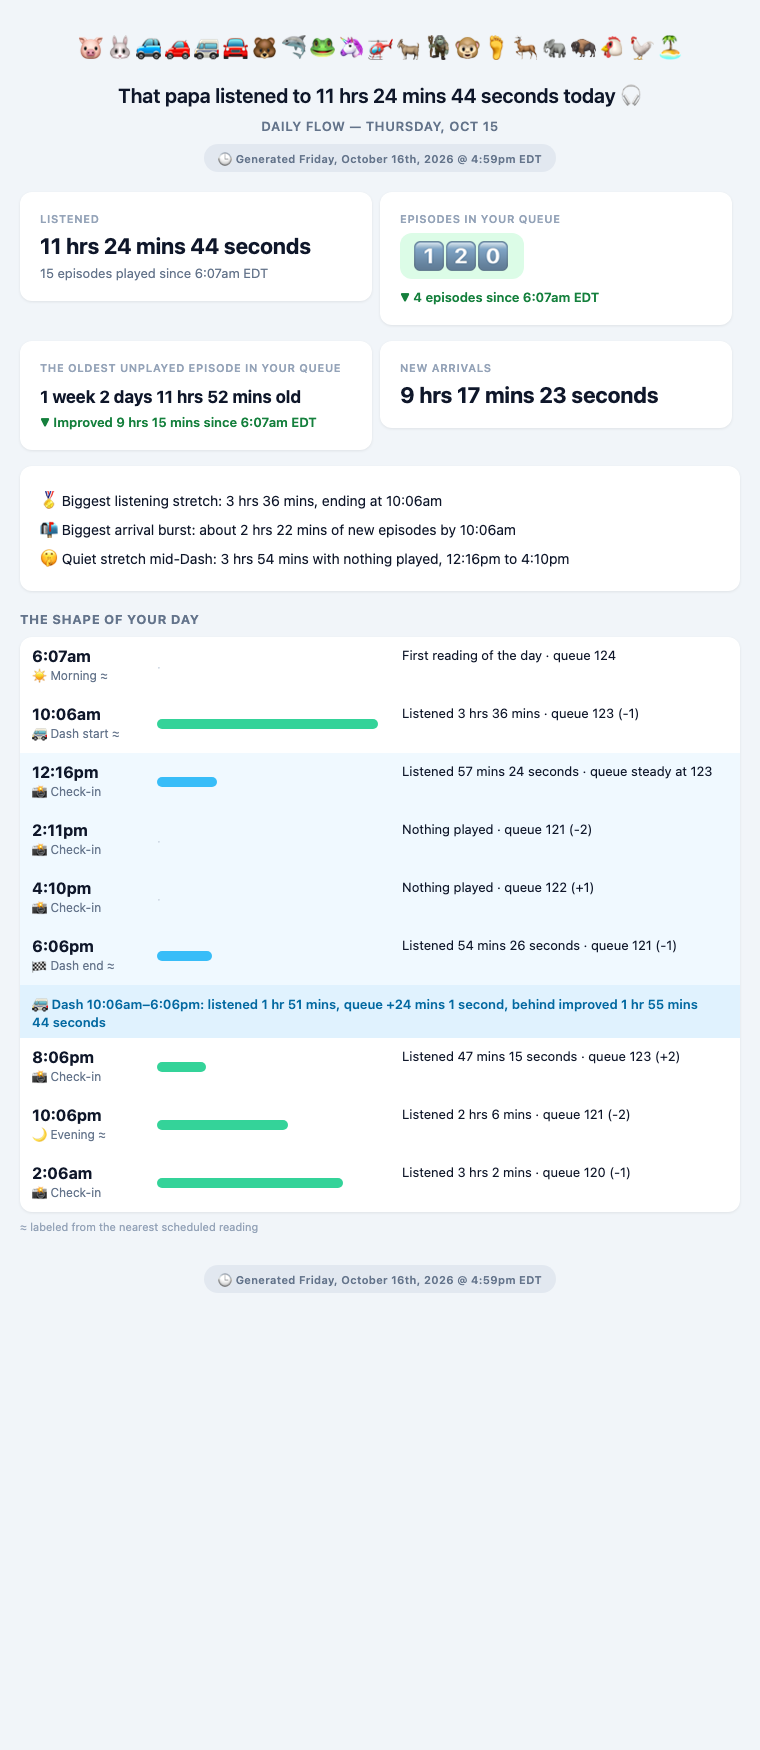
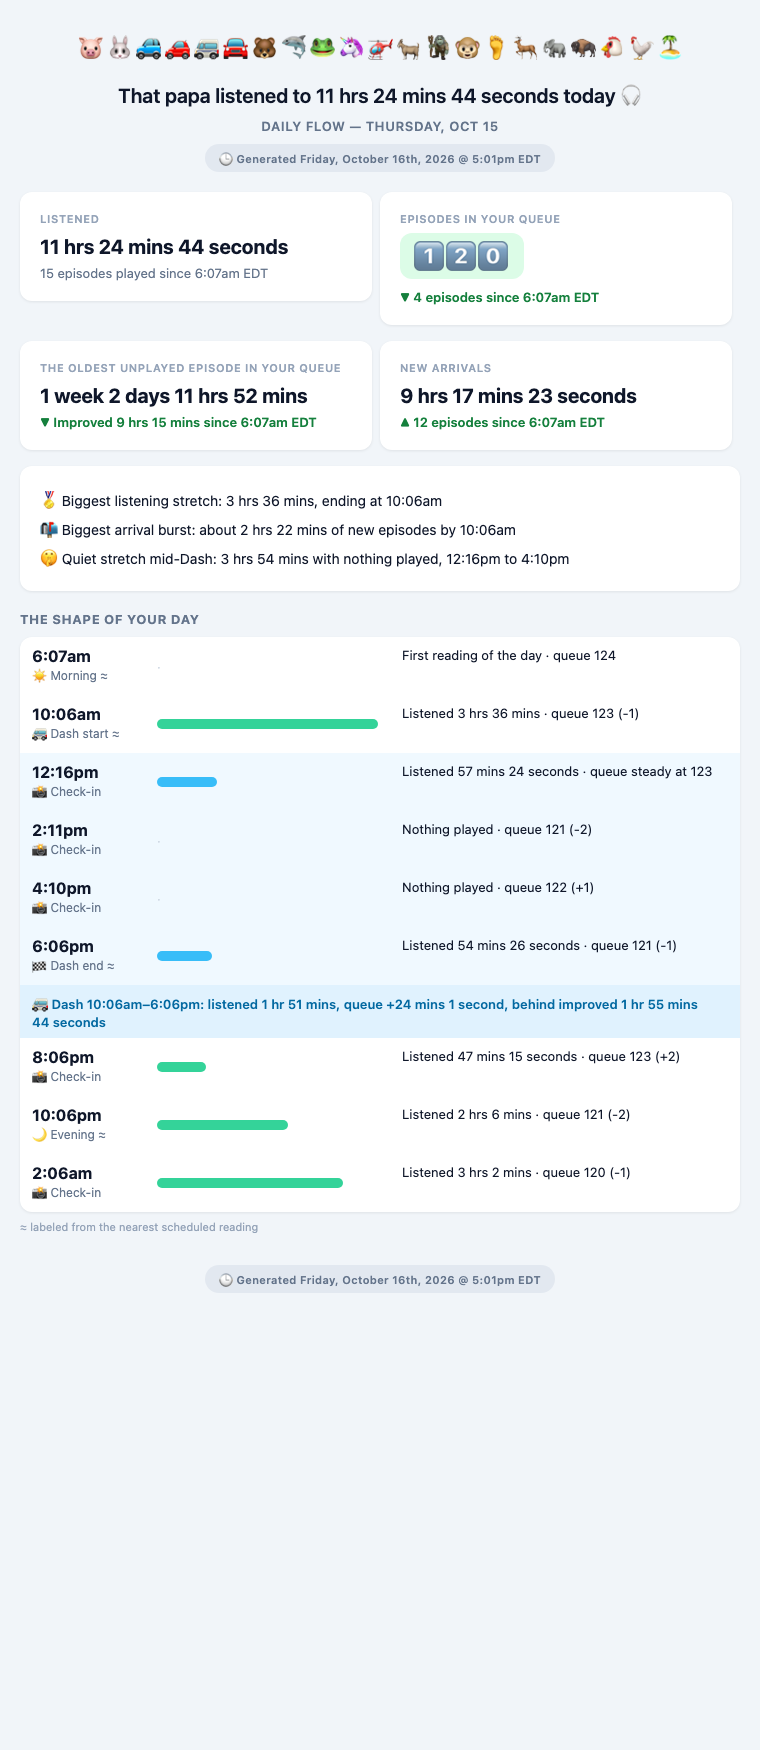
Flow web report: one value size on every card, and a color-coded New arrivals
New arrivals shows the duration and how many episodes landed, green when
listening outpaced arrivals, yellow within 10%, red when more arrived than was
played. Every card value is now the same size and never wraps.

Changed region(s): [[0.5145, 0.216, 0.8776, 0.2469], [0.0605, 0.216, 0.3934, 0.2469], [0.0605, 0.1234, 0.3934, 0.1543]]

diff --git a/flow.py b/flow.py
@@ -157,6 +157,12 @@ def arrivals_seconds(prev, cur):
     return max(0, (cur["queue_seconds"] - prev["queue_seconds"]) + cur["played_seconds"])
 
 
+def arrivals_count(prev, cur):
+    """Estimated episodes that landed between two snapshots: the change in
+    queue size plus the episodes played out of it."""
+    return max(0, (cur["queue_count"] - prev["queue_count"]) + cur["played_count"])
+
+
 def summarize_day(history, day, tz=None):
     snaps = day_snapshots(history, day, tz)
     out = {"day": day, "snapshots": snaps, "dashes": []}
@@ -175,6 +181,7 @@ def summarize_day(history, day, tz=None):
     out["arrivals_seconds"] = sum(
         arrivals_seconds(a, b) for a, b in zip(snaps, snaps[1:])
     )
+    out["arrivals_count"] = sum(arrivals_count(a, b) for a, b in zip(snaps, snaps[1:]))
 
     # Dash windows: each dash-start paired with the next dash-end.
     open_start = None
@@ -553,12 +560,12 @@ def render_week_chat(w, tz=None):
     return "\n".join(lines)
 
 
+CARD_VALUE_SIZE = 20
+
+
 def fit_value(text):
-    """A card's big number on one line: shrink the type for long values
-    rather than letting them wrap."""
-    n = len(text)
-    size = 22 if n <= 25 else 19 if n <= 31 else 17 if n <= 36 else 15
-    return (f'<span style="font-size:{size}px;white-space:nowrap;">{html.escape(text)}</span>')
+    """A card's big number: one size on every card, never wrapping."""
+    return (f'<span style="font-size:{CARD_VALUE_SIZE}px;white-space:nowrap;">{html.escape(text)}</span>')
 
 
 def _card(label, value, sub="", hint="", value_html=None, sub_html=None):
@@ -601,6 +608,23 @@ def queue_tone(start_count, end_count):
 def since_label(snap, tz=None):
     """"since 6:06am EDT" - the one starting point every card on the page uses."""
     return f"since {clock(snap, tz)} {local_dt(snap, tz).strftime('%Z')}"
+
+
+def arrivals_tone(arrived, listened):
+    """Green when you listened to more than arrived, yellow within 10% of it,
+    red when more arrived than you listened to."""
+    if arrived > listened * 1.1:
+        return "worse"
+    if arrived < listened * 0.9:
+        return "better"
+    return "same"
+
+
+def arrivals_line(count, arrived_seconds, listened_seconds, since):
+    tone = arrivals_tone(arrived_seconds, listened_seconds)
+    _, fg, _ = QUEUE_TONES[tone]
+    noun = f"{count} episode" + ("" if count == 1 else "s")
+    return f'<span style="color:{fg};font-weight:600;">\u25b2 {html.escape(noun)} {html.escape(since)}</span>'
 
 
 def age_line(delta, since):
@@ -791,9 +815,11 @@ def render_day_html(s, tz=None, generated=None, d=None):
         _card("Listened", dur(s["listened_seconds"]),
               f"{s['listened_count']} episode{'' if s['listened_count'] == 1 else 's'} played {since_label(qs, tz)}"),
         queue_card(qs, qe, tz),
-        _card("The oldest unplayed episode in your queue", f"{dur_n(qe['behind_seconds'], 4)} old",
+        _card("The oldest unplayed episode in your queue", dur_n(qe['behind_seconds'], 4),
               sub_html=age_line(s["behind_delta"], since_label(qs, tz))),
-        _card("New arrivals", dur(s["arrivals_seconds"])),
+        _card("New arrivals", dur(s["arrivals_seconds"]),
+              sub_html=arrivals_line(s["arrivals_count"], s["arrivals_seconds"], s["listened_seconds"],
+                                     since_label(qs, tz))),
     ]
     rows = "".join(f"<tr>{cards[i]}{cards[i + 1]}</tr>" for i in range(0, len(cards), 2))
     parts = [f'<table width="100%" cellpadding="0" cellspacing="0" style="margin-top:20px;">{rows}</table>']

diff --git a/tests/test_flow.py b/tests/test_flow.py
@@ -331,7 +331,7 @@ class StoryTests(unittest.TestCase):
     def test_every_card_says_since_the_same_time(self):
         s = flow.summarize_day(self.history, datetime.date(2026, 10, 16), NY)
         page = flow.render_day_html(s, NY)
-        self.assertEqual(page.count("since 9:00am EDT"), 3)
+        self.assertEqual(page.count("since 9:00am EDT"), 4)  # listened, queue, oldest, arrivals
         self.assertIn("episodes played since 9:00am EDT", page)
 
     def test_oldest_episode_line_is_green_yellow_or_red_like_the_queue(self):
@@ -345,12 +345,27 @@ class StoryTests(unittest.TestCase):
         self.assertIn("#b91c1c", worse)
         self.assertIn("▲ Slipped 2 hrs", worse)
 
-    def test_long_card_values_shrink_instead_of_wrapping(self):
-        short = flow.fit_value("6 hrs 21 mins")
-        long = flow.fit_value("1 week 2 days 10 hrs 48 mins old")
-        self.assertIn("font-size:22px", short)
-        self.assertIn("white-space:nowrap", long)
-        self.assertNotIn("font-size:22px", long)
+    def test_every_card_value_is_the_same_size_and_never_wraps(self):
+        for text in ("6 hrs 21 mins", "1 week 2 days 10 hrs 48 mins"):
+            v = flow.fit_value(text)
+            self.assertIn(f"font-size:{flow.CARD_VALUE_SIZE}px", v)
+            self.assertIn("white-space:nowrap", v)
+
+    def test_arrivals_count_is_queue_change_plus_played(self):
+        a = snap("2026-10-16T09:00", queue_count=120)
+        b = snap("2026-10-16T11:00", queue_count=118, played_count=3)
+        self.assertEqual(flow.arrivals_count(a, b), 1)
+        c = snap("2026-10-16T13:00", queue_count=100, played_count=1)
+        self.assertEqual(flow.arrivals_count(b, c), 0)
+
+    def test_arrivals_line_is_green_yellow_or_red(self):
+        since = "since 9:00am EDT"
+        self.assertIn("#15803d", flow.arrivals_line(2, 3000, 10000, since))   # listened more than arrived
+        self.assertIn("#a16207", flow.arrivals_line(5, 10200, 10000, since))  # about even
+        red = flow.arrivals_line(9, 20000, 10000, since)
+        self.assertIn("#b91c1c", red)
+        self.assertIn("▲ 9 episodes since 9:00am EDT", red)
+        self.assertIn("▲ 1 episode since", flow.arrivals_line(1, 100, 10000, since))
 
     def test_labels_have_names_and_approximate_ones_are_marked(self):
         self.assertEqual(flow.label_name({"label": "dash-end"}), "🏁 Dash end")
